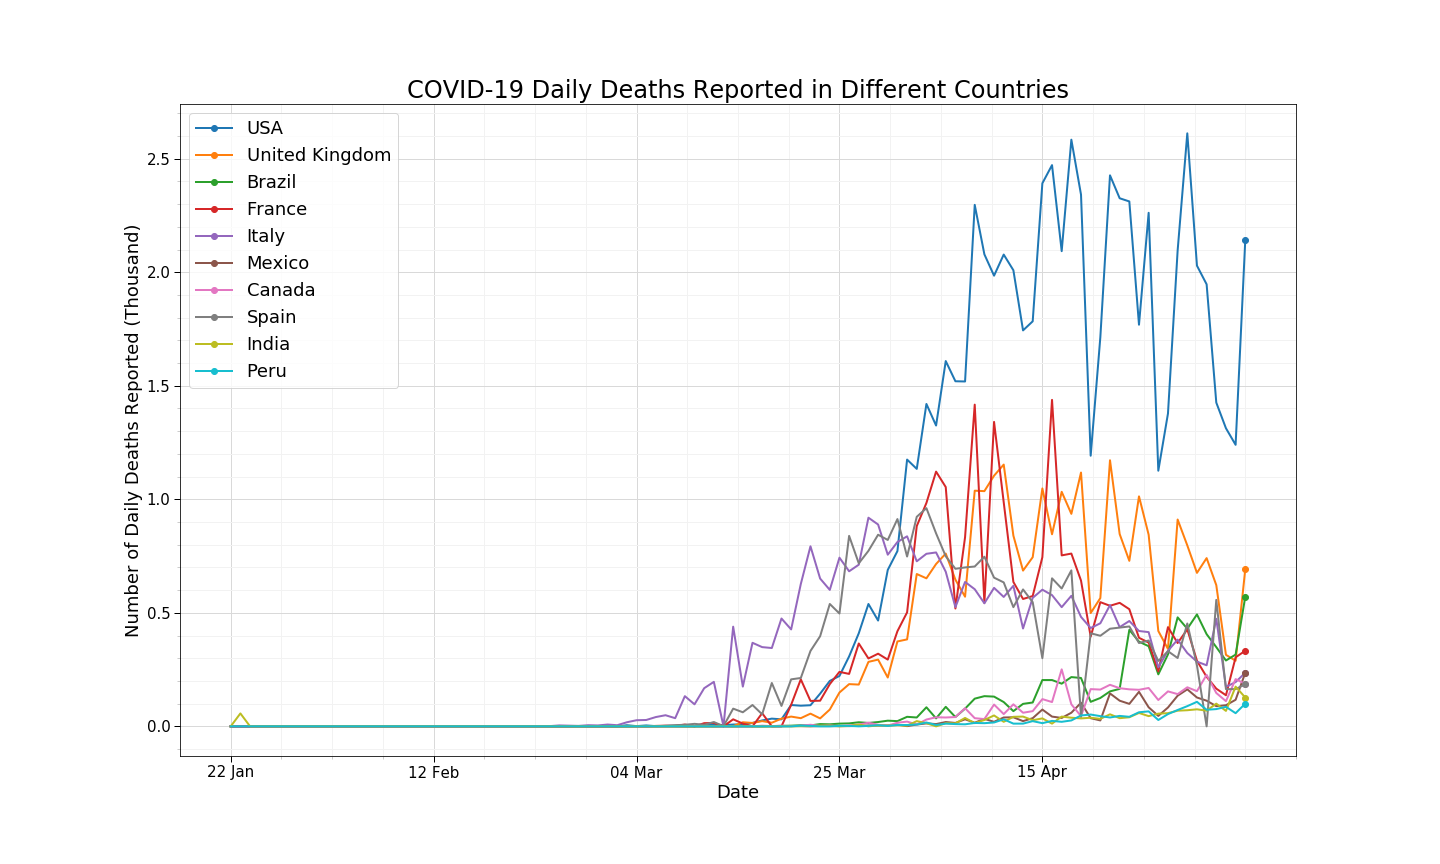
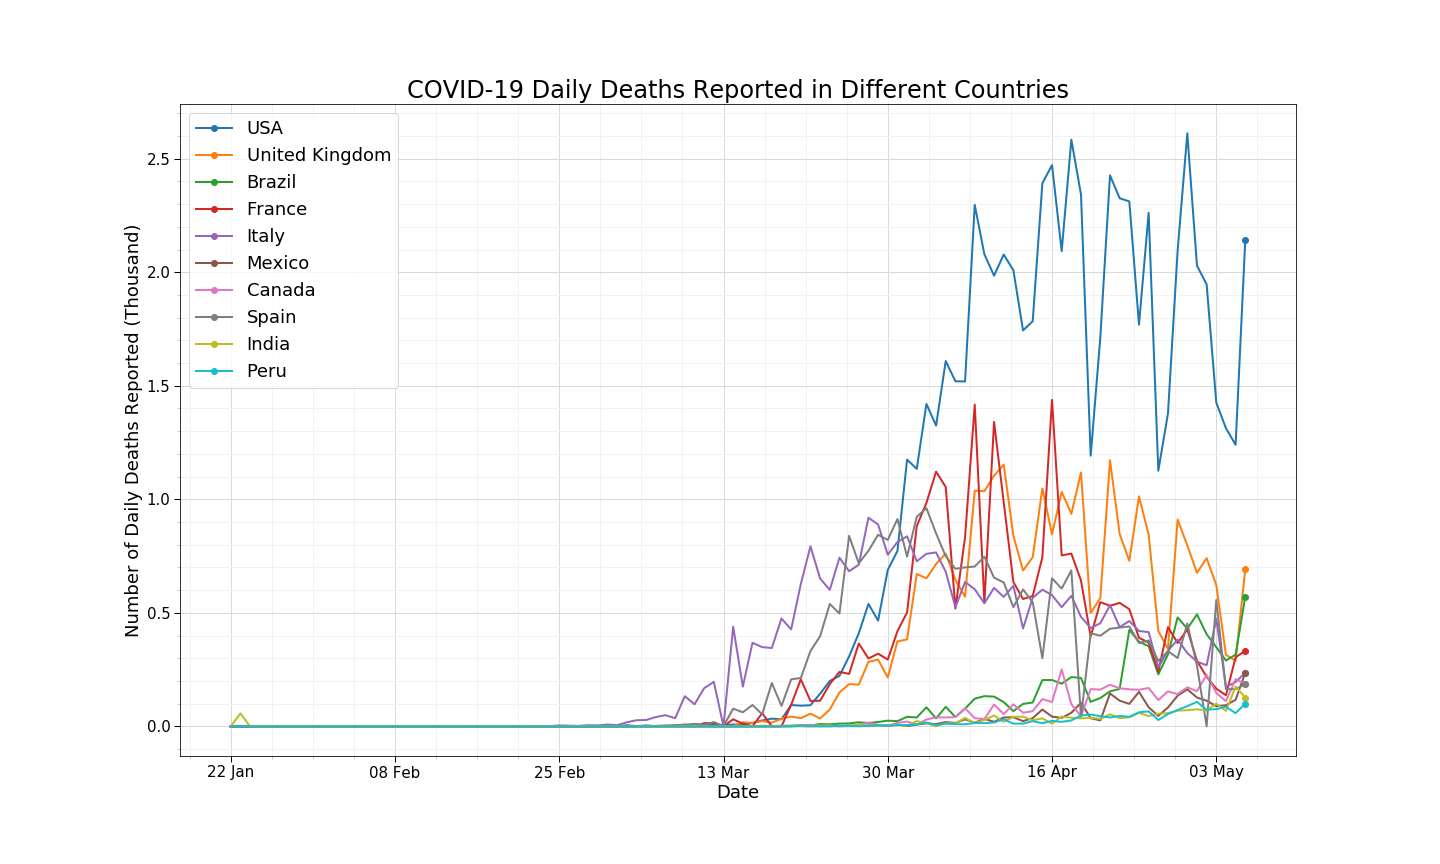
COVID-19 update.

diff --git a/notebooks/Examples/coronavirus/README.md b/notebooks/Examples/coronavirus/README.md
@@ -118,9 +118,9 @@ The CDC estimates [[36](https://www.cdc.gov/coronavirus/2019-ncov/index.html)] t
 
 	(520,000 / 329,227,746) * 100 = 0.157%
 	
-The current death percent of population (April 28, 2020) is 0.017% (roughly 17 in every 1,000 people):
+The current death percent of population (May 6, 2020) is 0.017% (roughly 22 in every 1,000 people):
 	
-	(56,259 / 329,227,746) * 100 = 0.017%
+	(71,064 / 329,227,746) * 100 = 0.022%
 	
 Compare this to the cancer, 2.915%:
 
@@ -143,23 +143,48 @@ This means that **the CDC track the slope (or rate of change) of the Sigmoid.** 
 If you are still having trouble with this Sigmoid concept, watch this great [YouTube video](https://youtu.be/Kas0tIxDvrg).
 
 
-## 4.2 Cases
-If we look at the China data for the *number of cases*, this does appear to look like a Sigmoid function.  This may indicate that the end is in sight for China.  Maybe the rest of the world is soon to follow.
+## 4.2 Daily Plots
+Daily plots of **new cases** is another great method to determine speed at which a virus spreads.  A drop in the curve (e.g. USA) indicates that the virus is not spreading as quickly and the end may be in sight.
 <p align="center">
-	<img src="figures/china_cases.png" width=600>
+	<img src="figures/daily_confirmed_cases_global.png" width=800>
 </p>
 <p align="center">
-	<img src="figures/non_china_cases.png" width=600>
+	<img src="figures/daily_deaths_global.png" width=800>
 </p>
 <p align="center">
-	<img src="figures/mortality_and_recovery_rate.png" width=600>
+	<img src="figures/daily_new_cases.png" width=800>
 </p>
-Spread to each country vs. time.
 <p align="center">
-	<img src="figures/country_spread.png" width=600>
+	<img src="figures/daily_deaths.png" width=800>
 </p>
 
-## 4.3 Maps - World
+
+## 4.3 Mortality Rate
+Number of tests in each country versus the mortality rate for that country.
+<p align="center">
+	<img src="figures/num_tests_vs_mortiality_rate_vs_country.png" width=800>
+</p>
+
+The mortiality rate for each country versus the test positive rate.  For example, 95.16% of the population that tested positive in the USA had a mortality rate of 5.9%
+<p align="center">
+	<img src="figures/mortiality_rate_vs_test_positive_vs_country.png" width=800>
+</p>
+
+
+## 4.4 Log-Log Plots
+Log-Log plots are a better form with which to look at data, specifically epidemics and the "doubling" time or spread of a virus.  A doubling is indicated by a straight line, where the slope indicate the number of days for doubling, whereas a curve to the right indicates a slowing of the spread of the virus.  We have provided "doubling" lines, at various rates, and curves for top 10 countries (with the most cases).  
+<p align="center">
+	<img src="figures/log_log_worldwide_cases.png" width=600>
+</p>
+<p align="center">
+	<img src="figures/log_log_worldwide_deaths.png" width=600>
+</p>
+<p align="center">
+	<img src="figures/log_world_trend.png" width=800>
+</p>
+
+
+## 4.5 Maps - World
 Confirmed cases by country
 <p align="center">
 	<img src="figures/covid_19_worldwide_confirmed.png" width=600>
@@ -171,7 +196,7 @@ Deaths by country
 </p>
 
 
-## 4.4 Maps - USA 
+## 4.6 Maps - USA 
 Confirmed cases by state
 <p align="center">
 	<img src="figures/covid_19_usa_confirmed.png" width=600>
@@ -193,7 +218,7 @@ Confirmed Cases by County: Heat Map
 </p>
 
 
-## 4.5 Block Chart
+## 4.7 Block Chart
 The size of the *overall block* represents the *total of all countries/states*.  The size of *each block* represents the number of cases/recovered/deaths in that *country/state*.
 <p align="center">
 	<img src="figures/covid_19_block_chart_confirmed.png" width=600>
@@ -213,33 +238,9 @@ The size of the *overall block* represents the *total of all countries/states*. 
 </p>
 
 
-## 4.6 Log-Log Plots
-Log-Log plots are a better form with which to look at data, specifically epidemics and the "doubling" time or spread of a virus.  A doubling is indicated by a straight line, where the slope indicate the number of days for doubling, whereas a curve to the right indicates a slowing of the spread of the virus.  We have provided "doubling" lines, at various rates, and curves for top 10 countries (with the most cases).  
-<p align="center">
-	<img src="figures/log_log_worldwide_cases.png" width=600>
-</p>
-<p align="center">
-	<img src="figures/log_log_worldwide_deaths.png" width=600>
-</p>
-<p align="center">
-	<img src="figures/log_world_trend.png" width=800>
-</p>
 
 
-## 4.7 Daily Plots
-Daily plots of **new cases** is another great method to determine speed at which a virus spreads.  A drop in the curve (e.g. USA) indicates that the virus is not spreading as quickly and the end may be in sight.
-<p align="center">
-	<img src="figures/daily_confirmed_cases_global.png" width=800>
-</p>
-<p align="center">
-	<img src="figures/daily_deaths_global.png" width=800>
-</p>
-<p align="center">
-	<img src="figures/daily_new_cases.png" width=800>
-</p>
-<p align="center">
-	<img src="figures/daily_deaths.png" width=800>
-</p>
+
 
 
 
